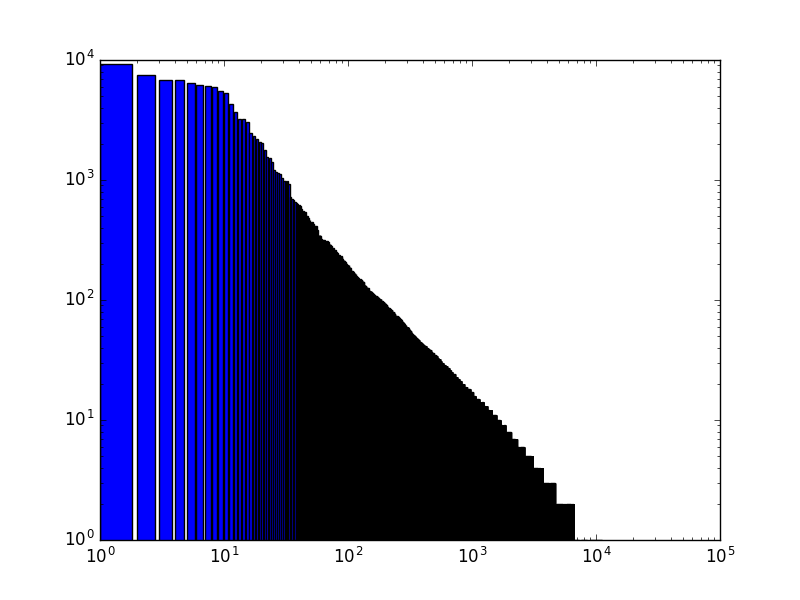
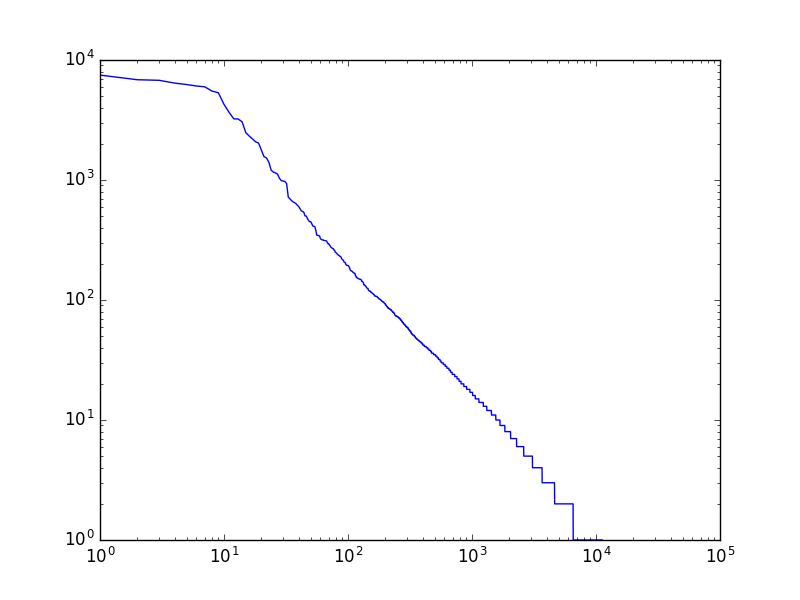
revise

Changed region(s): [[0.125, 0.09, 0.7188, 0.9]]

diff --git a/yamagishi/chapter04/knock34.py b/yamagishi/chapter04/knock34.py
@@ -6,6 +6,6 @@ def ngram(sentence, n):
 if __name__ == '__main__':
     for sentence in get_morphs('./neko.txt.mecab'):
         trigrams = ngram(sentence, 3)
-        for trigram in trigrams:
-            if trigram[0]['pos'] == '名詞' and trigram[1]['surface'] == 'の' and trigram[2]['pos'] == '名詞':
-                print('{}\t{}\t{}'.format(trigram[0]['surface'], trigram[1]['surface'], trigram[2]['surface']))
+        for first, second, third in trigrams:
+            if first['pos'] == '名詞' and second['surface'] == 'の' and third['pos'] == '名詞':
+                print('{}\t{}\t{}'.format(first['surface'], second['surface'], third['surface']))

diff --git a/yamagishi/chapter04/knock39.py b/yamagishi/chapter04/knock39.py
@@ -9,6 +9,6 @@ for sentence in get_morphs('./neko.txt.mecab'):
 
 plt.xscale('log')
 plt.yscale('log')
-plt.bar(range(1, len(frequency.values()) + 1), list(sorted(frequency.values(), reverse=True)))
+plt.plot(range(len(frequency.values())), list(sorted(frequency.values(), reverse=True)))
 plt.savefig('knock39_result.png')
 plt.show()
